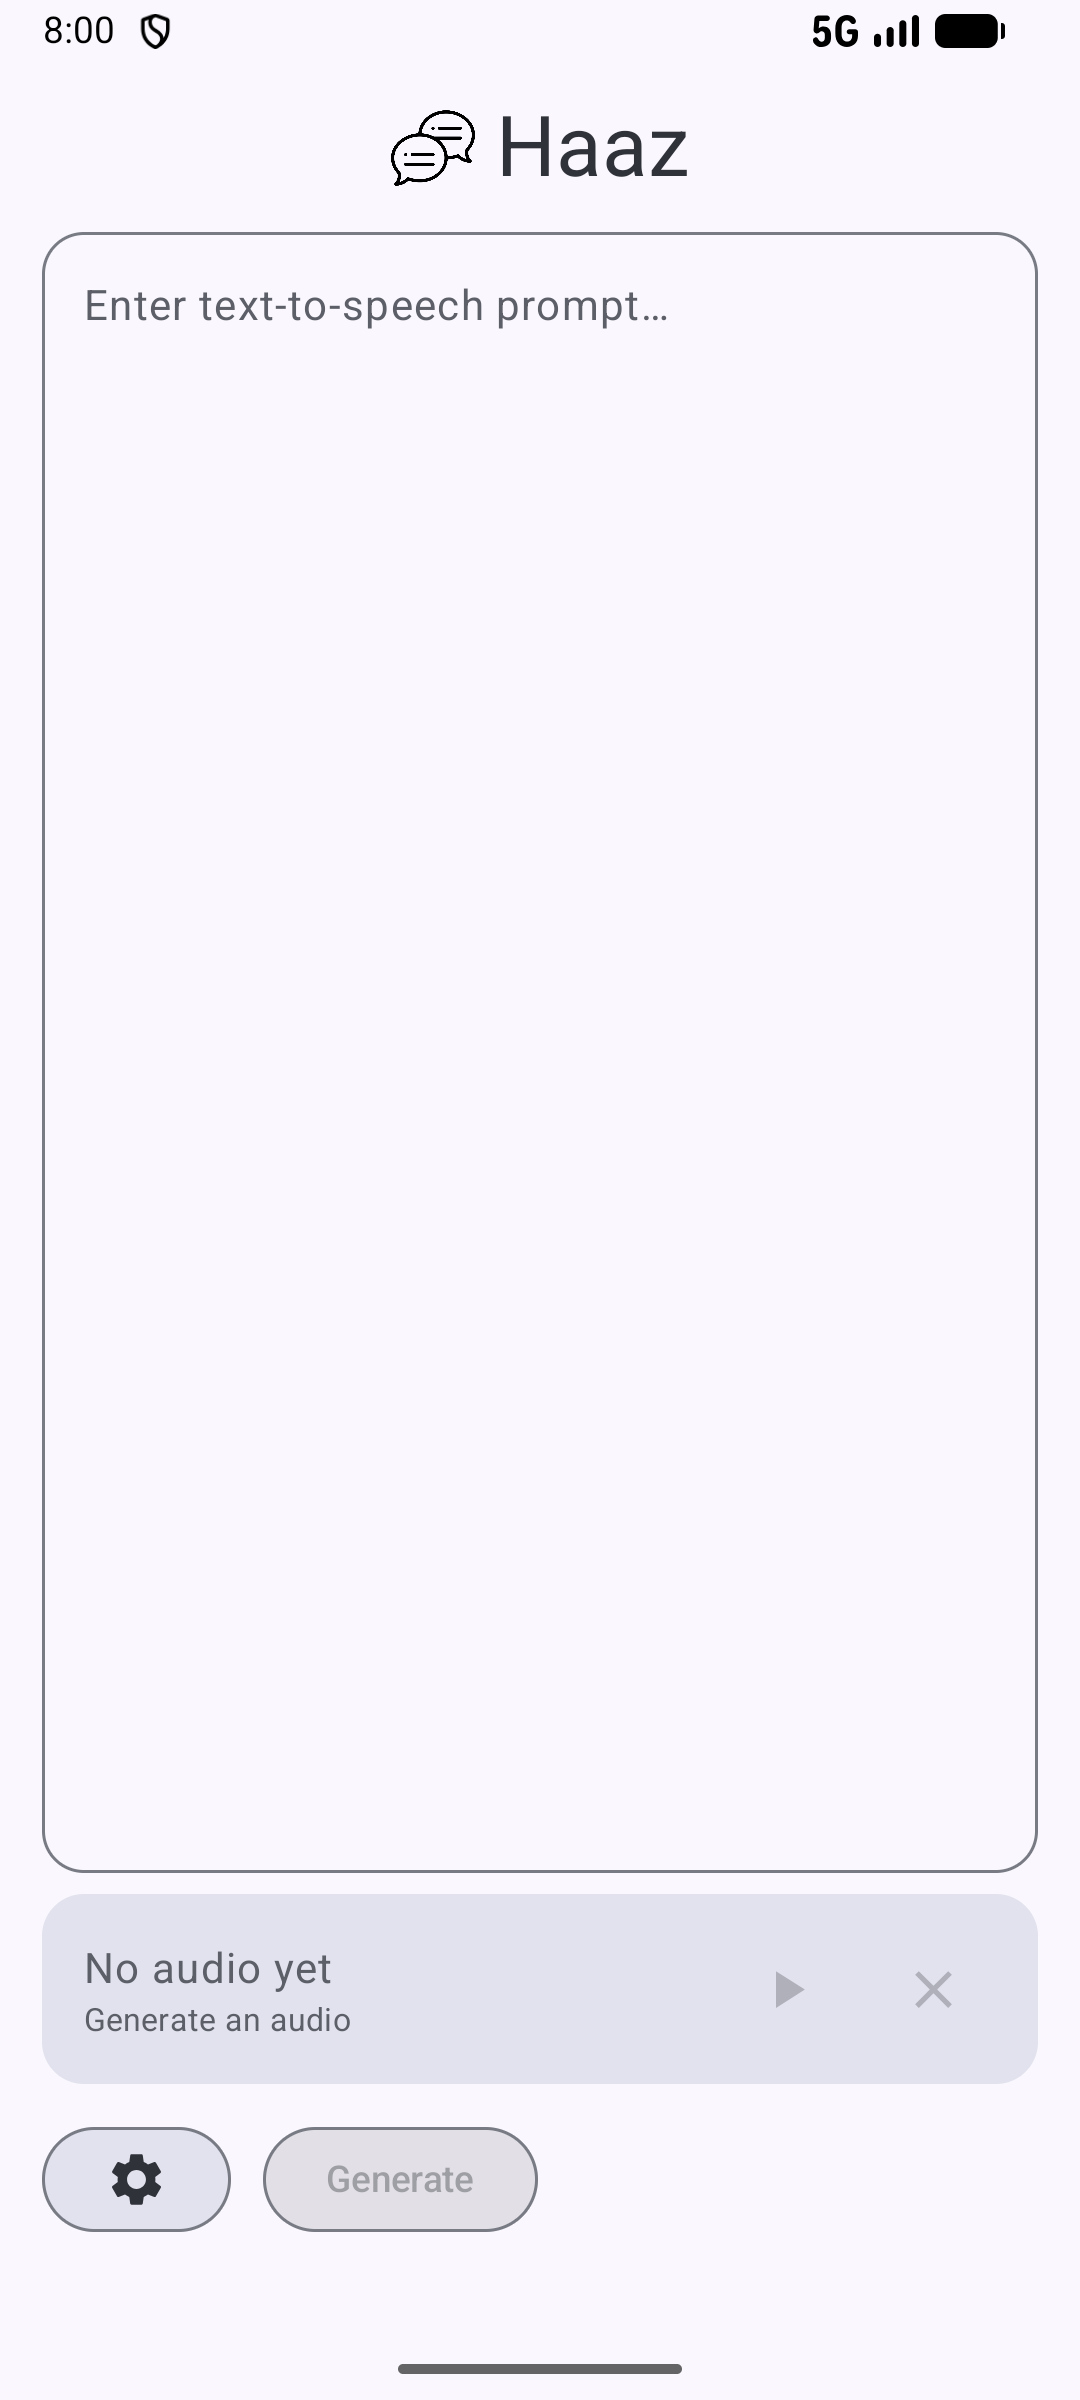
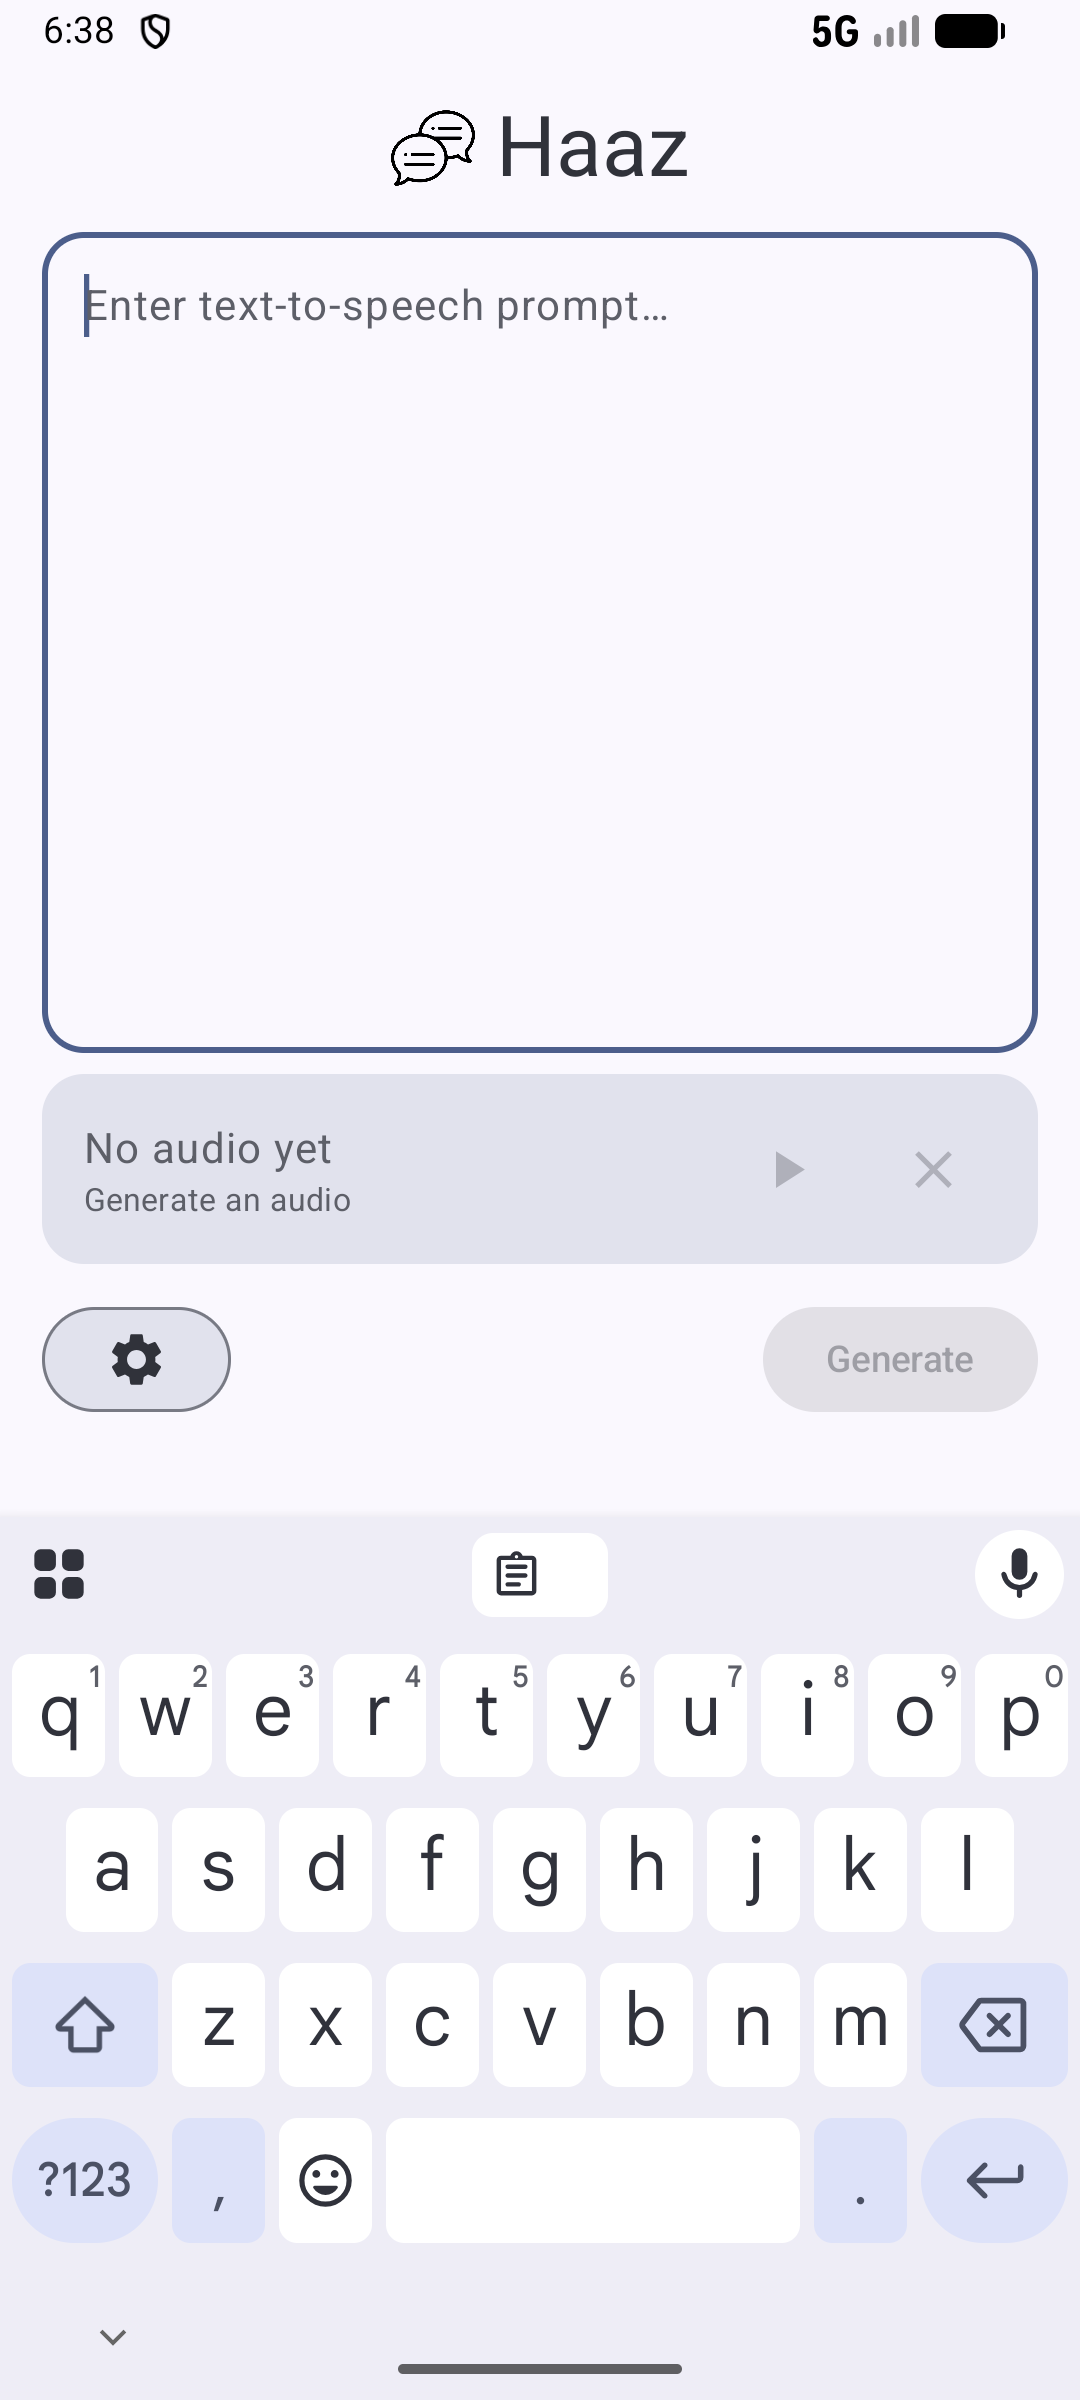
feat: Implement voice model selector
What changed:
- This change introduces voice model selection - users can now select from a list of voice models in the Settings sheet.
- Minor UI update: update the Generate button UI.
- Screenshot update: updated the screenshots to reflect the latest changes.

diff --git a/app/src/main/java/com/haaz/settings/SettingsSheetUI.kt b/app/src/main/java/com/haaz/settings/SettingsSheetUI.kt
@@ -9,6 +9,7 @@ import androidx.compose.foundation.layout.Spacer
 import androidx.compose.foundation.layout.fillMaxWidth
 import androidx.compose.foundation.layout.padding
 import androidx.compose.foundation.layout.size
+import androidx.compose.foundation.layout.width
 import androidx.compose.foundation.lazy.LazyRow
 import androidx.compose.foundation.lazy.items
 import androidx.compose.foundation.rememberScrollState
@@ -26,6 +27,7 @@ import androidx.compose.material3.OutlinedCard
 import androidx.compose.material3.Slider
 import androidx.compose.material3.SliderDefaults
 import androidx.compose.material3.Text
+import androidx.compose.material3.CircularProgressIndicator
 import androidx.compose.runtime.Composable
 import androidx.compose.runtime.LaunchedEffect
 import androidx.compose.runtime.getValue
@@ -39,10 +41,15 @@ import androidx.compose.ui.Modifier
 import androidx.compose.ui.unit.dp
 import com.haaz.data.TtsSettings
 import com.haaz.domain.TtsModel
+import com.haaz.domain.Voice
 
 @Composable
 fun SettingsSheetUI(
     initial: TtsSettings,
+    voices: List<Voice>,
+    isVoicesLoading: Boolean,
+    voicesError: String?,
+    onRetryVoices: () -> Unit,
     onSave: (TtsSettings) -> Unit,
     onReset: () -> Unit,
     onClose: () -> Unit
@@ -110,6 +117,76 @@ fun SettingsSheetUI(
             }
         }
 
+        Text(text = "Voice", style = MaterialTheme.typography.titleMedium)
+        when {
+            isVoicesLoading -> {
+                Row(
+                    modifier = Modifier
+                        .fillMaxWidth()
+                        .padding(vertical = 12.dp),
+                    horizontalArrangement = Arrangement.Center
+                ) {
+                    CircularProgressIndicator(modifier = Modifier.size(24.dp))
+                }
+            }
+            voicesError != null -> {
+                Row(
+                    modifier = Modifier.fillMaxWidth(),
+                    horizontalArrangement = Arrangement.SpaceBetween,
+                    verticalAlignment = Alignment.CenterVertically
+                ) {
+                    Text(text = voicesError, style = MaterialTheme.typography.bodyMedium, modifier = Modifier.weight(1f))
+                    Spacer(modifier = Modifier.width(8.dp))
+                    OutlinedButton(onClick = onRetryVoices) {
+                        Text("Retry")
+                    }
+                }
+            }
+            voices.isEmpty() -> {
+                Text(text = "No voices available. Try again later.", style = MaterialTheme.typography.bodyMedium)
+            }
+            else -> {
+                LazyRow(horizontalArrangement = Arrangement.spacedBy(12.dp)) {
+                    items(voices) { voice ->
+                        val selected = voice.id == draft.voiceId
+                        OutlinedCard(
+                            modifier = Modifier.size(width = 200.dp, height = 96.dp),
+                            onClick = { draft = draft.copy(voiceId = voice.id) },
+                            border = if (selected) BorderStroke(3.dp, MaterialTheme.colorScheme.primary) else BorderStroke(
+                                1.dp,
+                                MaterialTheme.colorScheme.primary
+                            )
+                        ) {
+                            Column(
+                                modifier = Modifier
+                                    .fillMaxWidth()
+                                    .padding(12.dp),
+                                verticalArrangement = Arrangement.SpaceBetween
+                            ) {
+                                Row(
+                                    modifier = Modifier.fillMaxWidth(),
+                                    horizontalArrangement = Arrangement.SpaceBetween,
+                                    verticalAlignment = Alignment.CenterVertically
+                                ) {
+                                    Text(text = voice.name, style = MaterialTheme.typography.titleMedium)
+                                    if (selected) {
+                                        Icon(
+                                            imageVector = Icons.Default.Done,
+                                            contentDescription = "Selected",
+                                            tint = MaterialTheme.colorScheme.primary
+                                        )
+                                    }
+                                }
+                                voice.descriptor?.let {
+                                    Text(text = it, style = MaterialTheme.typography.bodySmall)
+                                }
+                            }
+                        }
+                    }
+                }
+            }
+        }
+
         // Create speed slider
         SettingsSlider(
             title = "Speed",
@@ -156,15 +233,17 @@ fun SettingsSheetUI(
     }
 }
 
-private val TtsSettingsSaver = Saver<TtsSettings, Map<String, Any>>(save = {
+private val TtsSettingsSaver = Saver<TtsSettings, Map<String, Any?>>(save = {
     mapOf(
         "model" to it.model.id,
+        "voiceId" to (it.voiceId ?: ""),
         "speed" to it.speed,
         "stability" to it.stability
     )
 }, restore = {
     TtsSettings(
         model = TtsModel.fromId(it["model"] as? String),
+        voiceId = (it["voiceId"] as? String)?.takeIf { id -> id.isNotEmpty() },
         speed = (it["speed"] as? Float) ?: 1.0f,
         stability = (it["stability"] as? Float) ?: 0.5f
     )

diff --git a/app/src/main/java/com/haaz/data/TextToSpeechDataSource.kt b/app/src/main/java/com/haaz/data/TextToSpeechDataSource.kt
@@ -2,7 +2,12 @@ package com.haaz.data
 
 import com.haaz.BuildConfig
 import com.haaz.di.IoDispatcher
+import com.haaz.domain.Voice
+import com.haaz.network.TextToSpeechEndpoint
+import com.haaz.network.TextToSpeechRequest
+import com.haaz.network.VoiceSettings
 import kotlinx.coroutines.CoroutineDispatcher
+import kotlinx.coroutines.flow.MutableStateFlow
 import kotlinx.coroutines.withContext
 import javax.inject.Inject
 import javax.inject.Singleton
@@ -12,6 +17,8 @@ class TextToSpeechDataSource @Inject constructor(
     private val api: TextToSpeechEndpoint,
     @IoDispatcher private val dispatcher: CoroutineDispatcher
 ) {
+    private val cachedVoices = MutableStateFlow<List<Voice>>(emptyList())
+
     suspend fun generateSpeech(prompt: String, settings: TtsSettings): Result<ByteArray> = withContext(dispatcher) {
         val apiKey = BuildConfig.ELEVENLABS_API_KEY
         if (apiKey.isBlank()) {
@@ -21,7 +28,7 @@ class TextToSpeechDataSource @Inject constructor(
         runCatching {
             val response = api.streamSpeech(
                 apiKey = apiKey,
-                voiceId = DEFAULT_VOICE_ID,
+                voiceId = settings.voiceId ?: DEFAULT_VOICE_ID,
                 request = TextToSpeechRequest(
                     text = prompt,
                     modelId = settings.model.id,
@@ -42,8 +49,31 @@ class TextToSpeechDataSource @Inject constructor(
         }
     }
 
+    suspend fun fetchVoices(forceRefresh: Boolean = false): Result<List<Voice>> = withContext(dispatcher) {
+        val apiKey = BuildConfig.ELEVENLABS_API_KEY
+        if (apiKey.isBlank()) {
+            return@withContext Result.failure(IllegalStateException("Missing ElevenLabs API Key."))
+        }
+
+        if (!forceRefresh && cachedVoices.value.isNotEmpty()) {
+            return@withContext Result.success(cachedVoices.value)
+        }
+
+        runCatching {
+            val response = api.searchVoices(pageSize = 10, apiKey = apiKey)
+            val voices = response.voices.map { dto ->
+                Voice(
+                    id = dto.voiceId,
+                    name = dto.name,
+                    descriptor = dto.labels?.get("descriptive"),
+                )
+            }
+            cachedVoices.value = voices
+            voices
+        }
+    }
+
     companion object {
-        // TODO: add support for more voice models.
         private const val DEFAULT_VOICE_ID = "IKne3meq5aSn9XLyUdCD"
     }
 }

diff --git a/app/src/main/java/com/haaz/home/HomeViewModel.kt b/app/src/main/java/com/haaz/home/HomeViewModel.kt
@@ -5,6 +5,7 @@ import androidx.lifecycle.viewModelScope
 import com.haaz.data.SettingsRepository
 import com.haaz.data.TextToSpeechDataSource
 import com.haaz.data.TtsSettings
+import com.haaz.domain.Voice
 import dagger.hilt.android.lifecycle.HiltViewModel
 import kotlinx.coroutines.flow.MutableStateFlow
 import kotlinx.coroutines.flow.StateFlow
@@ -35,6 +36,7 @@ class HomeViewModel @Inject constructor(
 
     fun onToggleSettings(open: Boolean) {
         _uiState.update { it.copy(isSettingsSheetOpen = open) }
+        if (open) loadVoicesIfNeeded()
     }
 
     fun generateSpeech() {
@@ -98,6 +100,27 @@ class HomeViewModel @Inject constructor(
         }
     }
 
+    fun refreshVoices() {
+        viewModelScope.launch { loadVoices(force = true) }
+    }
+
+    private fun loadVoicesIfNeeded() {
+        val state = _uiState.value
+        if (state.voices.isNotEmpty() || state.isVoicesLoading) return
+        viewModelScope.launch { loadVoices(force = false) }
+    }
+
+    private suspend fun loadVoices(force: Boolean) {
+        _uiState.update { it.copy(isVoicesLoading = true, voicesError = null) }
+        val result = textToSpeechDataSource.fetchVoices(force)
+        _uiState.update { state ->
+            result.fold(
+                onSuccess = { voices -> state.copy(voices = voices, isVoicesLoading = false) },
+                onFailure = { error -> state.copy(isVoicesLoading = false, voicesError = error.message ?: "Unable to load voices") }
+            )
+        }
+    }
+
 }
 
 data class HomeUiState(
@@ -106,7 +129,10 @@ data class HomeUiState(
     val playback: PlaybackState? = null,
     val errorMessage: String? = null,
     val isSettingsSheetOpen: Boolean = false,
-    val settings: TtsSettings = TtsSettings()
+    val settings: TtsSettings = TtsSettings(),
+    val voices: List<Voice> = emptyList(),
+    val isVoicesLoading: Boolean = false,
+    val voicesError: String? = null
 ) {
     val canGenerate: Boolean get() = promptText.isNotBlank() && !isGenerating
 }

diff --git a/app/src/main/java/com/haaz/home/HomePage.kt b/app/src/main/java/com/haaz/home/HomePage.kt
@@ -173,15 +173,11 @@ private fun HomePageUI(uiState: HomeUiState, snackbarHostState: SnackbarHostStat
                 ) {
                     Icon(imageVector = Icons.Default.Settings, contentDescription = "Settings")
                 }
-                Spacer(modifier = Modifier.width(12.dp))
+                Spacer(modifier = Modifier.weight(1f))
                 Button(
                     onClick = { viewModel.generateSpeech() },
                     enabled = uiState.canGenerate,
-                    colors = ButtonDefaults.buttonColors(
-                        containerColor = MaterialTheme.colorScheme.surfaceVariant,
-                        contentColor = MaterialTheme.colorScheme.onSurface
-                    ),
-                    border = BorderStroke(1.dp, MaterialTheme.colorScheme.outline)
+                    colors = ButtonDefaults.buttonColors()
                 ) {
                     if (uiState.isGenerating) {
                         CircularProgressIndicator(
@@ -202,6 +198,10 @@ private fun HomePageUI(uiState: HomeUiState, snackbarHostState: SnackbarHostStat
                 ) {
                     SettingsSheetUI(
                         initial = uiState.settings,
+                        voices = uiState.voices,
+                        isVoicesLoading = uiState.isVoicesLoading,
+                        voicesError = uiState.voicesError,
+                        onRetryVoices = { viewModel.refreshVoices() },
                         onSave = { newSettings ->
                             viewModel.saveSettings(newSettings)
                             viewModel.onToggleSettings(false)

diff --git a/app/src/main/java/com/haaz/network/TextToSpeechEndpoint.kt b/app/src/main/java/com/haaz/network/TextToSpeechEndpoint.kt
@@ -1,20 +1,16 @@
-package com.haaz.data
+package com.haaz.network
 
 import com.squareup.moshi.Json
-import com.squareup.moshi.Moshi
-import com.squareup.moshi.kotlin.reflect.KotlinJsonAdapterFactory
-import okhttp3.OkHttpClient
 import okhttp3.ResponseBody
-import okhttp3.logging.HttpLoggingInterceptor
 import retrofit2.Response
-import retrofit2.Retrofit
-import retrofit2.converter.moshi.MoshiConverterFactory
 import retrofit2.http.Body
-import retrofit2.http.Header
+import retrofit2.http.GET
 import retrofit2.http.Headers
 import retrofit2.http.POST
 import retrofit2.http.Path
 import retrofit2.http.Streaming
+import retrofit2.http.Query
+import retrofit2.http.Header
 
 interface TextToSpeechEndpoint {
     @Streaming
@@ -25,6 +21,13 @@ interface TextToSpeechEndpoint {
         @Path("voice_id") voiceId: String,
         @Body request: TextToSpeechRequest
     ): Response<ResponseBody>
+
+    @Headers("Accept: application/json")
+    @GET("v2/voices")
+    suspend fun searchVoices(
+        @Header("xi-api-key") apiKey: String,
+        @Query("page_size") pageSize: Int = 10
+    ): VoiceSearchResponse
 }
 
 data class TextToSpeechRequest(
@@ -37,4 +40,14 @@ data class TextToSpeechRequest(
 data class VoiceSettings(
     @Json(name = "stability") val stability: Float,
     @Json(name = "speed") val speed: Float,
+)
+
+data class VoiceSearchResponse(
+    @Json(name = "voices") val voices: List<VoiceDto> = emptyList(),
+)
+
+data class VoiceDto(
+    @Json(name = "voice_id") val voiceId: String,
+    @Json(name = "name") val name: String,
+    @Json(name = "labels") val labels: Map<String, String>? = null,
 )

diff --git a/app/src/main/java/com/haaz/data/SettingsRepository.kt b/app/src/main/java/com/haaz/data/SettingsRepository.kt
@@ -17,6 +17,7 @@ private val Context.dataStore by preferencesDataStore(name = "tts_settings")
 
 data class TtsSettings(
     val model: TtsModel = TtsModel.MultilingualV2,
+    val voiceId: String? = null,
     val speed: Float = 1.0f,
     val stability: Float = 0.5f
 )
@@ -27,12 +28,14 @@ class SettingsRepository @Inject constructor(
 ) {
 
     private val modelKey = stringPreferencesKey("model_id")
+    private val voiceKey = stringPreferencesKey("voice_id")
     private val speedKey = floatPreferencesKey("speed")
     private val stabilityKey = floatPreferencesKey("stability")
 
     val settings: Flow<TtsSettings> = context.dataStore.data.map { prefs ->
         TtsSettings(
             model = TtsModel.fromId(prefs[modelKey]),
+            voiceId = prefs[voiceKey],
             speed = prefs[speedKey] ?: 1.0f,
             stability = prefs[stabilityKey] ?: 0.5f,
         )
@@ -41,6 +44,7 @@ class SettingsRepository @Inject constructor(
     suspend fun save(settings: TtsSettings) {
         context.dataStore.edit { prefs: MutablePreferences ->
             prefs[modelKey] = settings.model.id
+            settings.voiceId?.let { prefs[voiceKey] = it } ?: prefs.remove(voiceKey)
             prefs[speedKey] = settings.speed
             prefs[stabilityKey] = settings.stability
         }

diff --git a/app/src/main/java/com/haaz/di/NetworkModule.kt b/app/src/main/java/com/haaz/di/NetworkModule.kt
@@ -1,6 +1,6 @@
 package com.haaz.di
 
-import com.haaz.data.TextToSpeechEndpoint
+import com.haaz.network.TextToSpeechEndpoint
 import com.squareup.moshi.Moshi
 import com.squareup.moshi.kotlin.reflect.KotlinJsonAdapterFactory
 import dagger.Module

diff --git a/app/src/main/java/com/haaz/domain/Voice.kt b/app/src/main/java/com/haaz/domain/Voice.kt
@@ -1,0 +1,8 @@
+package com.haaz.domain
+
+data class Voice(
+    val id: String,
+    val name: String,
+    val descriptor: String? = null,
+)
+

diff --git a/README.md b/README.md
@@ -20,6 +20,6 @@ ELEVENLABS_API_KEY=your_api_key_here
 - DataStore for settings persistence
 
 ## Screenshots
-| Home | Playback | Settings |
-| --- | --- | --- |
+| Home | Playback | Settings sheet                                 |
+| --- | --- |------------------------------------------------|
 | ![home.png](docs/screenshots/home.png) | ![playback.png](docs/screenshots/playback.png) | ![settings.png](docs/screenshots/settings.png) |
